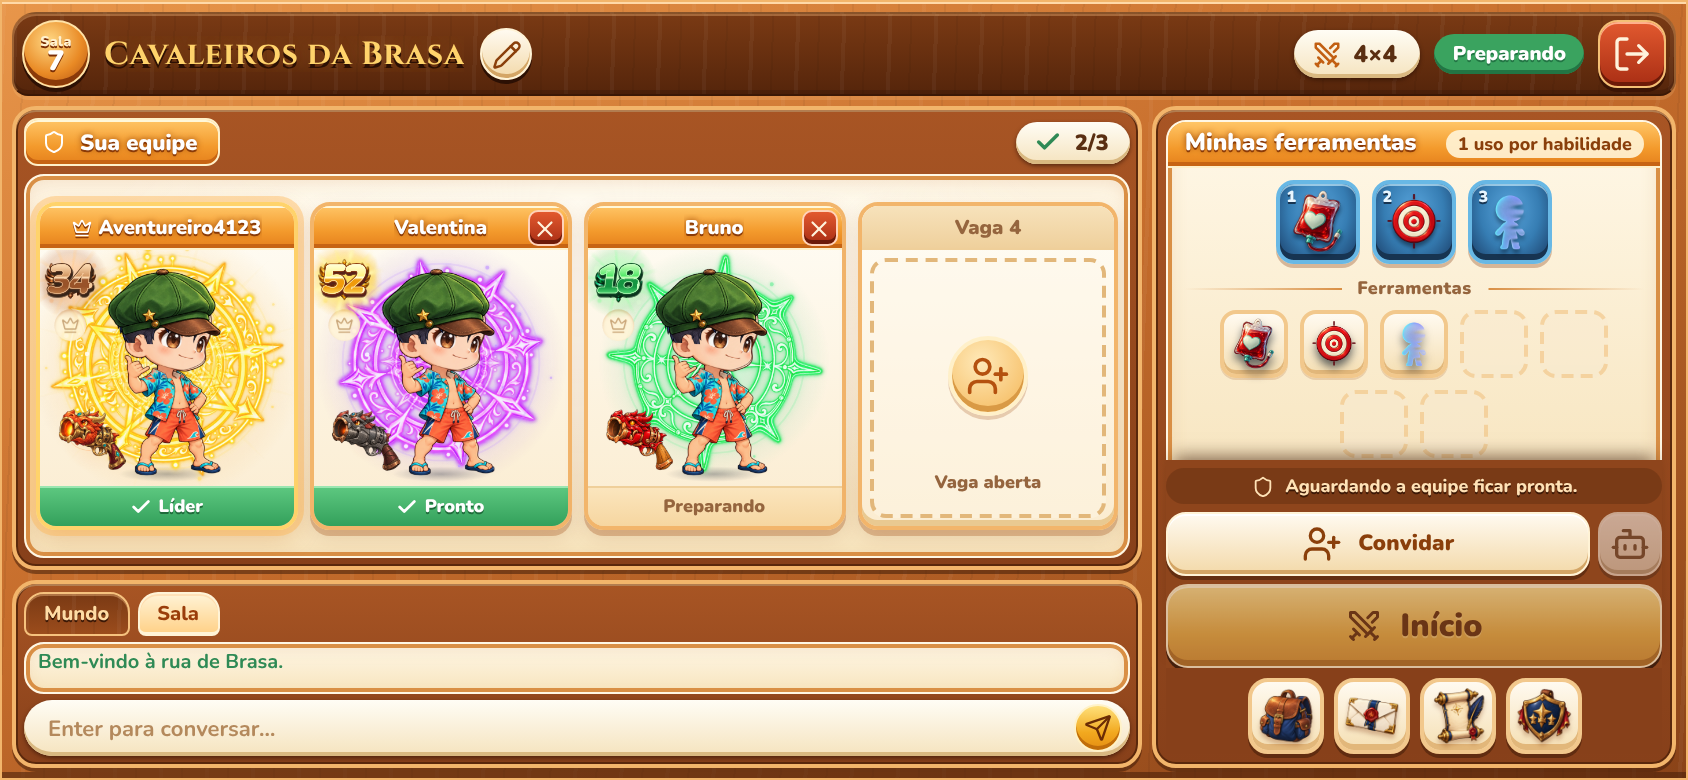
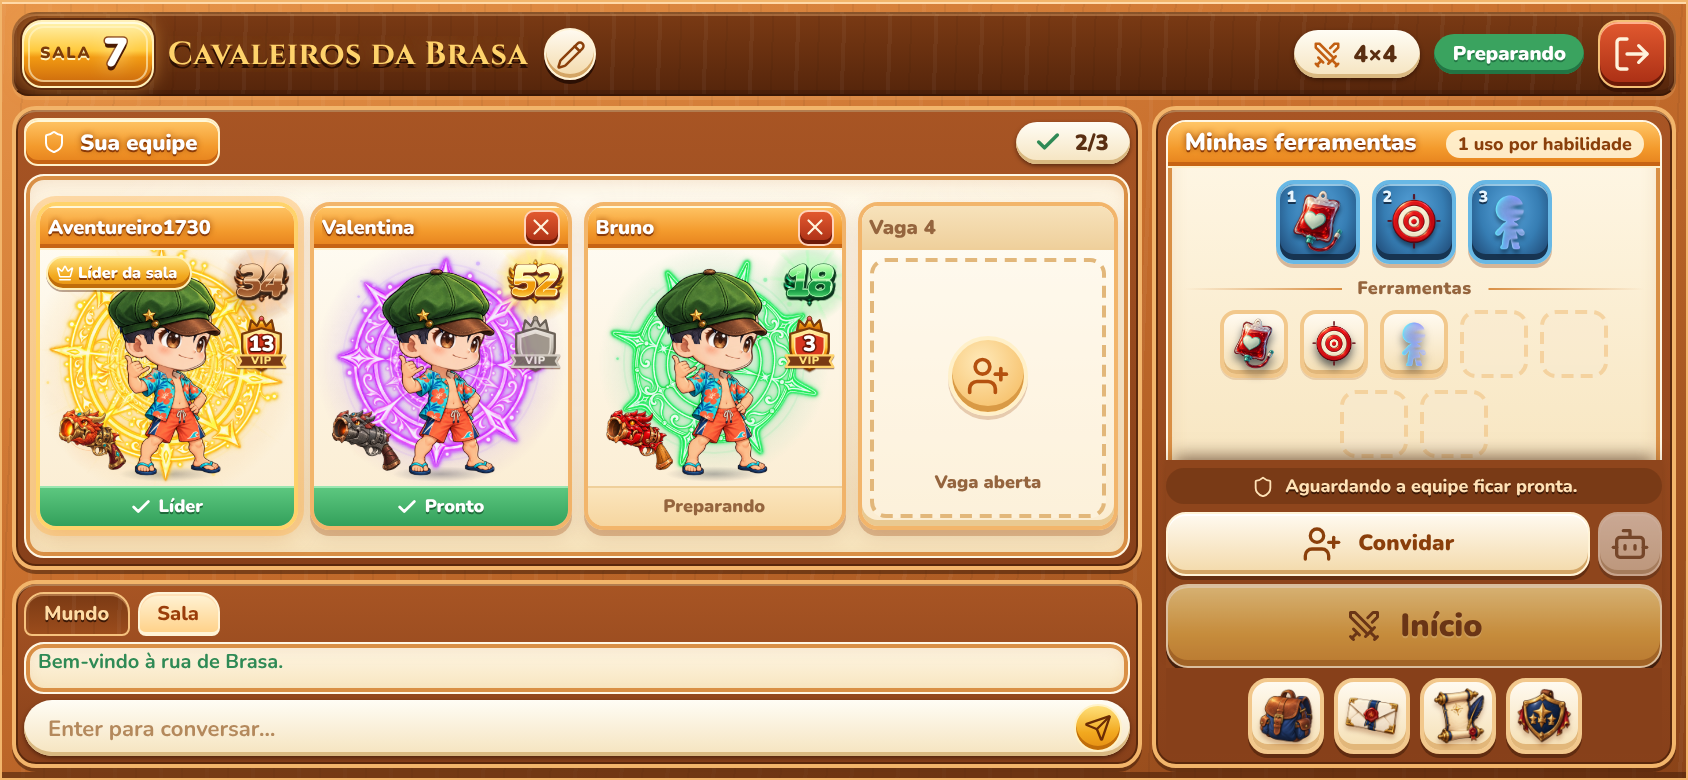
Room player cards in DDTank layout, painted VIP shield and bolder room number
Player cards put the name on the left of the top band, a "Líder da sala" tag
for the host, and the level badge with a VIP shield stacked on the right.
The VIP shield is gold with crown and level when active and grey stone when
inactive (Seat gains an optional vipLevel; the server does not set it yet).
The title bar room number becomes a gold plaque with a large numeral.

Claude-Session: https://claude.ai/code/session_016cokYZuSYov3BwbyjMp7VU

Changed region(s): [[0.0, 0.2769, 0.6161, 0.6154], [0.0, 0.0, 0.3697, 0.1231]]

diff --git a/src/components/Arena.css b/src/components/Arena.css
@@ -12,9 +12,10 @@
 
 /* ---------- Barra de título ---------- */
 .pvp-room .pr-titlebar{display:flex;align-items:center;gap:12px;min-width:0;padding:0 11px 0 9px}
-.pvp-room .party-room-number{display:grid;place-items:center;align-content:center;flex:none;width:48px;height:48px;border:2px solid #ffe2a6;border-radius:50%;background:radial-gradient(circle at 40% 30%,#ffd884,#e98a25 55%,#a9480f);box-shadow:inset 0 -3px #8a3a0a,0 2px #2c1004;color:#fff;text-shadow:0 1px #7a2d04;line-height:1}
-.pvp-room .party-room-number span{font-size:9px;font-weight:900;letter-spacing:.2px;color:#fff1cf}
-.pvp-room .party-room-number strong{font-size:20px;font-weight:900}
+.pvp-room .party-room-number{position:relative;display:flex;align-items:center;gap:7px;flex:none;height:50px;padding:0 16px 0 13px;border:2px solid #fff0b8;border-radius:14px;background:linear-gradient(#fff3b0,#ffc93c 45%,#f29a12 55%,#c9660d);box-shadow:inset 0 1px #fffbe0,inset 0 -3px #9a4a0a,0 0 0 2px #5b2a0e,0 3px 0 2px #2c1004,0 0 18px #ffb44f88;color:#fff;line-height:1}
+.pvp-room .party-room-number::before{content:'';position:absolute;inset:3px;border:1px solid #fff6cf99;border-radius:10px;pointer-events:none}
+.pvp-room .party-room-number span{font-size:12px;font-weight:900;letter-spacing:.12em;text-transform:uppercase;color:#7a3a0a;text-shadow:0 1px #fff4c2}
+.pvp-room .party-room-number strong{min-width:24px;font-size:32px;font-weight:900;text-align:center;color:#fff;-webkit-text-stroke:2px #7a2d04;paint-order:stroke fill;text-shadow:0 2px 0 #4a1a04,0 0 10px #fff1b0}
 .pvp-room .party-room-name{display:flex;align-items:center;gap:8px;flex:0 1 auto;min-width:0}
 .pvp-room .party-room-name h1{min-width:0;margin:0;overflow:hidden;font:700 24px/1.15 'Cinzel',Georgia,serif;letter-spacing:.3px;color:var(--wood-gold);text-overflow:ellipsis;white-space:nowrap;text-shadow:0 2px #2c1004,0 0 12px #ffae4a55}
 .pvp-room .party-rename-button{display:grid;place-items:center;flex:none;width:30px;height:30px;padding:0;border:1px solid #fff3d6;border-radius:50%;background:linear-gradient(#fffaf0,#f3d9a9);box-shadow:inset 0 -2px #d4a565,0 2px #2c1004;color:#8a3f0b}
@@ -48,20 +49,18 @@
 /* ---------- Cartas dos aliados ---------- */
 .pvp-room .pr-card{position:relative;display:grid;grid-template-rows:30px minmax(0,1fr) 28px;min-width:0;min-height:0;border:2px solid #f2b56b;border-radius:13px;background:linear-gradient(#fffdf6,#fbecd0);box-shadow:inset 0 -3px #e9c991,0 3px #a75a2355,0 4px 10px #8a431826;overflow:hidden}
 .pvp-room .pr-card.is-me{border-color:#ffd36b;box-shadow:inset 0 -3px #e9c991,0 0 0 3px #ffb44f66,0 4px 12px #c2610f44}
-.pvp-room .pr-card-name{display:flex;align-items:center;justify-content:center;gap:6px;min-width:0;padding:0 8px;border-width:0 0 1px;border-radius:0;font-size:14px;font-weight:900}
+.pvp-room .pr-card-name{display:flex;align-items:center;justify-content:flex-start;gap:6px;min-width:0;padding:0 8px;border-width:0 0 1px;border-radius:0;font-size:14px;font-weight:900}
 .pvp-room .pr-card-name strong{min-width:0;overflow:hidden;text-overflow:ellipsis;white-space:nowrap}
 .pvp-room .pr-card-name>svg{flex:none;filter:drop-shadow(0 1px #8a3a07)}
 .pvp-room .pr-card-name--vacant{border-bottom:1px solid #efcf9a;background:linear-gradient(#f7e2bb,#efd09c);color:var(--wood-ink-soft);font-size:13px;text-shadow:none}
-.pvp-room .pr-card-kick{position:absolute;top:4px;right:5px;display:grid;place-items:center;width:22px;height:22px;padding:0;border:1px solid #ffd2b8;border-radius:7px;background:linear-gradient(#e2592f,#a92e14);box-shadow:inset 0 -2px #6d1a08;color:#fff3dc}
+.pvp-room .pr-card-name strong{flex:1}
+.pvp-room .pr-card-kick{position:static;flex:none;display:grid;place-items:center;width:22px;height:22px;padding:0;border:1px solid #ffd2b8;border-radius:7px;background:linear-gradient(#e2592f,#a92e14);box-shadow:inset 0 -2px #6d1a08;color:#fff3dc}
 .pvp-room .pr-card-stage{position:relative;min-height:0;overflow:hidden;container-type:size;background:radial-gradient(ellipse at 50% 48%,#fffdf6,transparent 66%)}
 .pvp-room .pr-card-sigil{width:min(96cqw,96cqh);translate:-50% -52%}
 .pvp-room .pr-card-portrait{position:absolute;inset:0;display:flex;align-items:flex-end;justify-content:center;z-index:1}
 .pvp-room .pr-card-portrait>canvas{flex:none;width:auto!important;height:min(118cqh,110cqw)!important;max-width:none;aspect-ratio:1;margin-bottom:-2%;pointer-events:none}
-.pvp-room .pr-card-insignia{position:absolute;top:5px;left:6px;z-index:2;display:grid;justify-items:center;gap:2px}
-.pvp-room .party-vip{display:grid;place-items:center;width:24px;height:24px;border-radius:50%;background:#fff4d7e6;box-shadow:inset 0 1px 2px #b8641a55}
-.pvp-room .party-vip.vip-inactive{color:#c9a679}
-.pvp-room .party-vip.vip-active{color:#e58f1f}
-.pvp-room .party-vip svg{width:14px;height:14px}
+.pvp-room .pr-card-insignia{position:absolute;top:6px;right:6px;z-index:2;display:grid;justify-items:center;gap:4px}
+.pvp-room .pr-host-tag{position:absolute;top:6px;left:7px;z-index:2;display:inline-flex;align-items:center;gap:4px;padding:3px 9px 3px 7px;border:1px solid #fff0b8;border-radius:999px;background:linear-gradient(#ffe07a,#f2a91f 60%,#e48d12);box-shadow:inset 0 -2px #c06d0a,0 1px #5b2a0e66;color:#fff;font-size:12px;font-style:italic;font-weight:900;white-space:nowrap;text-shadow:0 1px #8a3a07}
 .pvp-room .pr-card-state{display:flex;align-items:center;justify-content:center;gap:5px;border-top:1px solid #efcf9a;background:linear-gradient(#fbe5bd,#f6d6a0);font-size:12px;font-weight:900}
 .pvp-room .pr-card-state.ready{background:linear-gradient(#5cc77f,#33a05b);border-top-color:#9be6b1;color:#fff;text-shadow:0 1px #1f6b3b}
 .pvp-room .pr-card-state.waiting{color:var(--wood-ink-soft)}
@@ -189,9 +188,10 @@
 /* ---------- Celular em paisagem ---------- */
 html.mobile-landscape .arena-room-portal .pvp-room{grid-template-rows:42px minmax(0,1fr);gap:5px;padding:max(5px,env(safe-area-inset-top)) max(5px,env(safe-area-inset-right)) max(5px,env(safe-area-inset-bottom)) max(5px,env(safe-area-inset-left));border-width:1px}
 html.mobile-landscape .pvp-room .pr-titlebar{gap:7px;padding:0 4px 0 4px;border-radius:12px 12px 8px 8px}
-html.mobile-landscape .pvp-room .party-room-number{width:34px;height:34px;border-width:1px}
-html.mobile-landscape .pvp-room .party-room-number span{font-size:7px}
-html.mobile-landscape .pvp-room .party-room-number strong{font-size:14px}
+html.mobile-landscape .pvp-room .party-room-number{height:34px;gap:4px;padding:0 10px 0 8px;border-width:1px;border-radius:10px;box-shadow:inset 0 1px #fffbe0,inset 0 -2px #9a4a0a,0 0 0 1px #5b2a0e,0 0 10px #ffb44f88}
+html.mobile-landscape .pvp-room .party-room-number::before{inset:2px;border-radius:8px}
+html.mobile-landscape .pvp-room .party-room-number span{font-size:8px}
+html.mobile-landscape .pvp-room .party-room-number strong{min-width:16px;font-size:20px;-webkit-text-stroke:1.5px #7a2d04}
 html.mobile-landscape .pvp-room .party-room-name h1{font-size:16px}
 html.mobile-landscape .pvp-room .party-rename-button{width:26px;height:26px}
 html.mobile-landscape .pvp-room .party-rename-form{height:30px}
@@ -212,7 +212,9 @@ html.mobile-landscape .pvp-room .pr-card.vacant{grid-template-rows:22px minmax(0
 html.mobile-landscape .pvp-room .pr-card-name{gap:3px;padding:0 4px;font-size:10px}
 html.mobile-landscape .pvp-room .pr-card-name>svg{width:10px;height:10px}
 html.mobile-landscape .pvp-room .pr-card-kick{top:2px;right:2px;width:18px;height:18px;border-radius:5px}
-html.mobile-landscape .pvp-room .pr-card-insignia{top:2px;left:2px;transform:scale(.66);transform-origin:top left}
+html.mobile-landscape .pvp-room .pr-card-insignia{top:2px;right:2px;gap:2px;transform:scale(.62);transform-origin:top right}
+html.mobile-landscape .pvp-room .pr-host-tag{top:3px;left:3px;gap:2px;padding:2px 6px 2px 4px;font-size:8px}
+html.mobile-landscape .pvp-room .pr-host-tag svg{width:9px;height:9px}
 html.mobile-landscape .pvp-room .pr-card-state{gap:3px;font-size:9px}
 html.mobile-landscape .pvp-room .pr-card-state svg{width:11px;height:11px}
 html.mobile-landscape .pvp-room .pr-card-vacant{margin:4px;border-radius:8px}

diff --git a/src/components/Arena.tsx b/src/components/Arena.tsx
@@ -8,6 +8,7 @@ import {Chat} from './Hud';
 import {Avatar} from './Avatar';
 import {AbilityPreparation} from './AbilitySlots';
 import {LevelBadge} from './LevelBadge';
+import {VipBadge} from './VipBadge';
 import {RoomInvitations} from './RoomInvitations';
 import {RoomSpectators} from './RoomSpectators';
 import './ArenaTheme.css';
@@ -16,16 +17,13 @@ import './Arena.css';
 const SLOT_INDICES=[0,1,2,3] as const;
 export {Arena} from './ArenaHall';
 
-function ArenaVip({active=false}:{active?:boolean}){
- return <span className={`party-vip ${active?'vip-active':'vip-inactive'}`} role="img" aria-label={active?'VIP ativo':'VIP inativo'} title={active?'VIP ativo':'VIP inativo'}><Crown size={16} strokeWidth={1.8} aria-hidden="true"/></span>;
-}
-
 function PlayerCard({seat,slot,open,hostId,mine,canManage}:{seat:Seat|undefined;slot:number;open:boolean;hostId:string;mine:boolean;canManage:boolean}){
  const owner=seat?.id===hostId,ready=!!seat&&(seat.ready||owner);
  return <article className={`arena-player-card party-player-card pr-card ${seat?'occupied':open?'vacant open-slot':'vacant closed-slot'} ${mine?'is-me':''}`} data-slot={slot} data-slot-state={seat?'occupied':open?'open':'closed'} aria-label={`Sua equipe, posição ${slot+1}, ${seat?.name??(open?'vaga aberta':'vaga fechada')}`}>
-  {seat?<><header className="pr-card-name wood-ribbon">{owner&&<Crown size={13} aria-label="Líder da sala"/>}<strong title={seat.name}>{seat.name}</strong>{!seat.connected&&<WifiOff size={13} aria-label="Reconectando"/>}{canManage&&!owner&&<button className="party-kick pr-card-kick" aria-label={`Expulsar ${seat.name}`} title="Expulsar da sala" onClick={()=>client.send({type:'kick',playerId:seat.id})}><X size={13}/></button>}</header>
+  {seat?<><header className="pr-card-name wood-ribbon"><strong title={seat.name}>{seat.name}</strong>{!seat.connected&&<WifiOff size={13} aria-label="Reconectando"/>}{canManage&&!owner&&<button className="party-kick pr-card-kick" aria-label={`Expulsar ${seat.name}`} title="Expulsar da sala" onClick={()=>client.send({type:'kick',playerId:seat.id})}><X size={13}/></button>}</header>
    <div className="pr-card-stage">
-    <div className="pr-card-insignia"><LevelBadge level={seat.level} size={40}/><ArenaVip/></div>
+    {owner&&<span className="pr-host-tag" aria-label="Líder da sala"><Crown size={12} aria-hidden="true"/>Líder da sala</span>}
+    <div className="pr-card-insignia"><LevelBadge level={seat.level} size={46}/><VipBadge level={seat.vipLevel??0} size={44}/></div>
     {(seat.equipment.upgrade??0)<5&&<i className="wood-sigil pr-card-sigil" aria-hidden="true"/>}
     <div className="party-player-portrait pr-card-portrait"><Avatar equipment={seat.equipment} size={240} animated={false} auraAnimated showAura centerBody weaponSide={-1} weaponScale={0.72} weaponOffset={20} weaponVerticalOffset={12} groundedShadow/></div>
    </div>

diff --git a/src/components/VipBadge.css b/src/components/VipBadge.css
@@ -1,0 +1,18 @@
+.vip-badge{position:relative;display:inline-grid;place-items:center;flex:none;width:var(--vip-size);height:calc(var(--vip-size) * 1.08);font-family:'Nunito','Trebuchet MS',sans-serif;line-height:1}
+.vip-badge svg{position:absolute;inset:0;width:100%;height:100%;overflow:visible;filter:drop-shadow(0 calc(var(--vip-size) * .04) 0 #5b2a0e88)}
+.vip-badge .vip-shield,.vip-badge .vip-crown,.vip-badge .vip-ribbon{stroke-width:2;stroke-linejoin:round}
+.vip-badge.is-active .vip-shield{fill:url(#vip-face-on);stroke:#7a3a0a}
+.vip-badge.is-active .vip-shield-inner{fill:#d9371f;stroke:#ffe9a1;stroke-width:1.2}
+.vip-badge.is-active .vip-crown{fill:url(#vip-face-on);stroke:#7a3a0a}
+.vip-badge.is-active .vip-crown-gem{fill:url(#vip-gem);stroke:#7a3a0a;stroke-width:.8}
+.vip-badge.is-active .vip-ribbon{fill:#7a3a14;stroke:#ffd36b}
+.vip-badge.is-inactive .vip-shield{fill:url(#vip-face-off);stroke:#5e554b}
+.vip-badge.is-inactive .vip-shield-inner{fill:#9a9186;stroke:#e3ddd3;stroke-width:1.2}
+.vip-badge.is-inactive .vip-crown{fill:#c9c1b5;stroke:#5e554b}
+.vip-badge.is-inactive .vip-crown-gem{fill:#8f877c;stroke:#5e554b;stroke-width:.8}
+.vip-badge.is-inactive .vip-ribbon{fill:#6e665c;stroke:#cfc8bd}
+.vip-badge .vip-level{position:relative;z-index:1;margin-top:calc(var(--vip-size) * .04);font-size:calc(var(--vip-size) * .4);font-weight:900;color:#fff;-webkit-text-stroke:calc(var(--vip-size) * .06) #7a1a08;paint-order:stroke fill;text-shadow:0 1px 0 #3b0c03}
+.vip-badge .vip-word{position:absolute;left:0;right:0;bottom:calc(var(--vip-size) * .1);z-index:1;font-size:calc(var(--vip-size) * .2);font-weight:900;letter-spacing:.06em;text-align:center}
+.vip-badge.is-active .vip-word{color:#ffe07a}
+.vip-badge.is-inactive .vip-word{color:#e9e4dc}
+.vip-badge.is-inactive{opacity:.92}

diff --git a/src/components/VipBadge.tsx b/src/components/VipBadge.tsx
@@ -1,0 +1,23 @@
+import type {CSSProperties} from 'react';
+import './VipBadge.css';
+
+/** Escudo VIP do card de jogador: dourado com coroa e nível quando ativo, pedra cinza quando inativo. */
+export function VipBadge({level=0,size=40,className=''}:{level?:number;size?:number;className?:string}){
+ const active=level>0,label=active?`VIP nível ${level}`:'VIP inativo';
+ return <span className={`vip-badge ${active?'is-active':'is-inactive'} ${className}`} style={{'--vip-size':size+'px'} as CSSProperties} role="img" aria-label={label} title={label}>
+  <svg viewBox="0 0 48 52" aria-hidden="true">
+   <defs>
+    <linearGradient id="vip-face-on" x1="0" y1="0" x2="0" y2="1"><stop offset="0" stopColor="#fff3b0"/><stop offset=".45" stopColor="#ffc93c"/><stop offset=".55" stopColor="#f29a12"/><stop offset="1" stopColor="#c45f08"/></linearGradient>
+    <linearGradient id="vip-face-off" x1="0" y1="0" x2="0" y2="1"><stop offset="0" stopColor="#eeeae3"/><stop offset=".5" stopColor="#b9b2a7"/><stop offset="1" stopColor="#857c70"/></linearGradient>
+    <linearGradient id="vip-gem" x1="0" y1="0" x2="0" y2="1"><stop offset="0" stopColor="#ff9a9a"/><stop offset="1" stopColor="#c8102e"/></linearGradient>
+   </defs>
+   <path className="vip-crown" d="M13 15 L15 6 L20 11 L24 3 L28 11 L33 6 L35 15 Z"/>
+   <circle className="vip-crown-gem" cx="24" cy="4.5" r="2"/>
+   <path className="vip-shield" d="M24 13 L41 18 V30 C41 40 33 46 24 50 C15 46 7 40 7 30 V18 Z"/>
+   <path className="vip-shield-inner" d="M24 17 L37 21 V30 C37 37.5 31.5 42.5 24 45.5 C16.5 42.5 11 37.5 11 30 V21 Z"/>
+   <path className="vip-ribbon" d="M3 37 H45 L42 42 L45 47 H3 L6 42 Z"/>
+  </svg>
+  {active&&<b className="vip-level">{level}</b>}
+  <small className="vip-word">VIP</small>
+ </span>;
+}

diff --git a/shared/protocol.ts b/shared/protocol.ts
@@ -13,7 +13,7 @@ export interface ShopResult {items:string[];spent:number;}
 export interface ForgeResult {item:string;success:boolean;level:number;chance:number;consumed:Record<string,number>;}
 export interface CompositionResult {item:string;stone:string;stat:CompositionStat;success:boolean;previous:number;value:number;chance:number;cost:number;}
 export interface LobbyPlayer {id:string;name:string;level:number;x:number;y:number;equipment:Equipment;}
-export interface Seat {id:string;name:string;level:number;equipment:Equipment;ready:boolean;bot:boolean;team:0|1;slot:number;connected:boolean;abilityLoadout?:AbilityLoadout;}
+export interface Seat {id:string;name:string;level:number;equipment:Equipment;ready:boolean;bot:boolean;team:0|1;slot:number;connected:boolean;abilityLoadout?:AbilityLoadout;vipLevel?:number;}
 export interface RoomSpectator {id:string;name:string;level:number;slot:0|1;connected:boolean;}
 export interface Room {id:string;number:number;name:string;hostId:string;mode:RoomMode;openSlots:number[];map:MapId;status:'waiting'|'searching'|'playing';players:Seat[];spectatorSlots?:number[];spectators?:RoomSpectator[];practice?:boolean;matchStartedAt?:number;searchStartedAt?:number;}
 export interface RoomInvitePlayer {id:string;name:string;level:number;}
